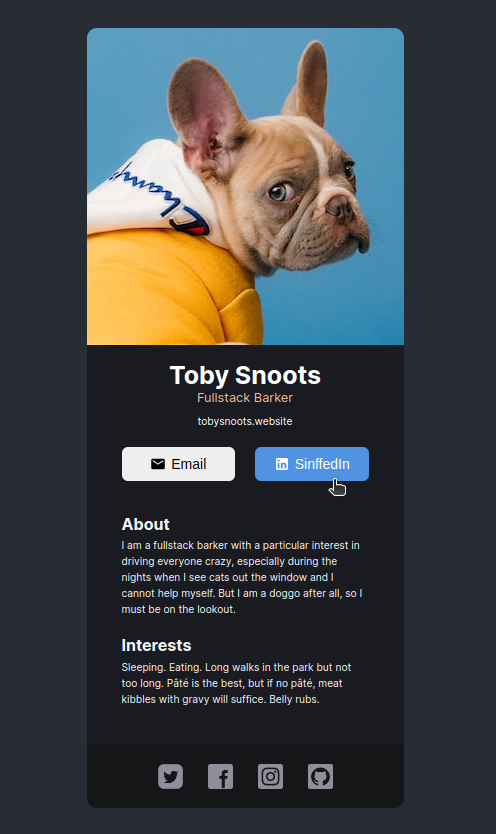
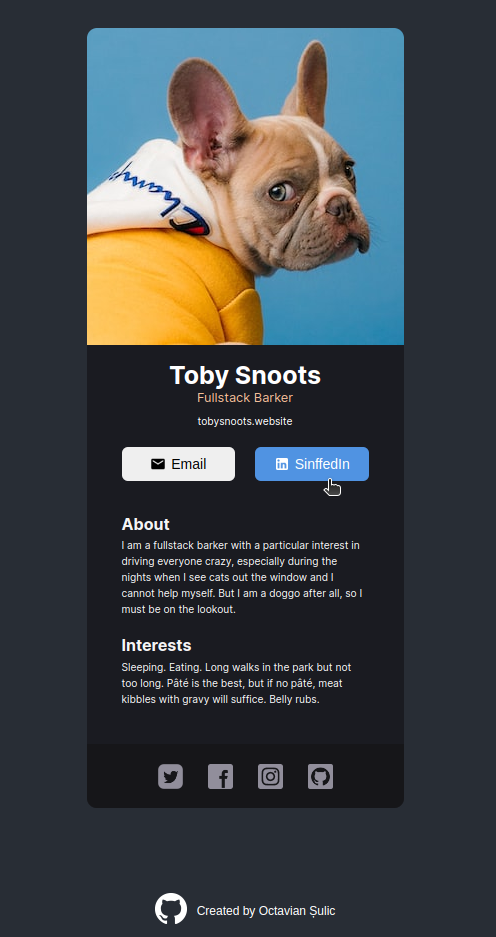
Add credits, update readme

Changed region(s): [[0.1512, 0.0312, 0.8165, 0.8417], [0.1512, 0.8729, 0.8165, 0.9976], [0.7863, 0.0312, 0.8165, 0.0624]]

diff --git a/src/style.css b/src/style.css
@@ -8,6 +8,7 @@ body {
   background-color: #282d35;
   font-family: Inter, sans-serif;
   color: white;
+  position: relative;
 }
 
 .card {
@@ -104,4 +105,16 @@ body {
   height: 25px;
   width: 25px;
   cursor: pointer;
+}
+
+/* Credits */
+.credits {
+  display: flex;
+  flex-direction: row;
+  align-items: center;
+  gap: 10px;
+  font-size: 12px;
+  position: absolute;
+  bottom: -120px;
+  font-family: Arial, Helvetica, sans-serif;
 }

diff --git a/src/components/Credits.jsx b/src/components/Credits.jsx
@@ -1,0 +1,15 @@
+import React, { Component } from 'react';
+import github from '../assets/gitw.png';
+
+export default function Credits() {
+  return (
+    <div className="credits">
+      <div className="credits--image">
+        <a href="https://github.com/octavian-sn">
+          <img src={github} alt="github logo" />
+        </a>
+      </div>
+      <div className="credits--text">Created by Octavian Șulic</div>
+    </div>
+  );
+}

diff --git a/src/App.js b/src/App.js
@@ -3,6 +3,7 @@ import Info from './components/Info';
 import About from './components/About';
 import Interests from './components/Interests';
 import Footer from './components/Footer';
+import Credits from './components/Credits';
 
 class App extends Component {
   render() {
@@ -14,6 +15,7 @@ class App extends Component {
           <Interests />
         </div>
         <Footer />
+        <Credits />
       </div>
     );
   }

diff --git a/README.md b/README.md
@@ -1,5 +1,7 @@
 # Digital Business Card - Project
 
-### Built with [React](https://reactjs.org/) following a [Figma design](<https://www.figma.com/file/zYVzpzzQATRUXZmkaJBHBK/Digital-Business-Card-(Copy)?node-id=0%3A129&t=VGgGoTPWpi2JXmYm-0>)
+Built with [React](https://reactjs.org/) following a [Figma design](<https://www.figma.com/file/zYVzpzzQATRUXZmkaJBHBK/Digital-Business-Card-(Copy)?node-id=0%3A129&t=VGgGoTPWpi2JXmYm-0>)
+
+### [Live preview](https://octavian-sn.github.io/digital-business-card/)
 
 ![Screen-shot of the app!](./src/assets/screen.png)
